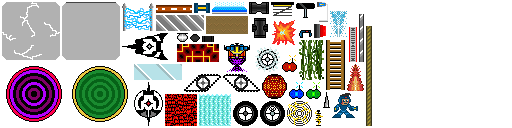
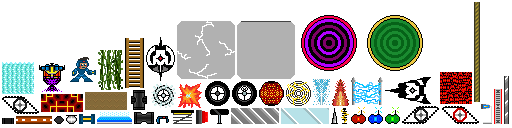
updated triptread class

diff --git a/core/src/com/udacity/gamedev/gigagal/entity/Triptread.java b/core/src/com/udacity/gamedev/gigagal/entity/Triptread.java
@@ -1,6 +1,78 @@
 package com.udacity.gamedev.gigagal.entity;
 
-public class Triptread {
+import com.badlogic.gdx.graphics.g2d.SpriteBatch;
+import com.badlogic.gdx.math.Rectangle;
+import com.badlogic.gdx.math.Vector2;
+import com.badlogic.gdx.utils.TimeUtils;
+import com.badlogic.gdx.utils.viewport.Viewport;
+import com.udacity.gamedev.gigagal.app.LevelUpdater;
+import com.udacity.gamedev.gigagal.util.Assets;
+import com.udacity.gamedev.gigagal.util.Constants;
+import com.udacity.gamedev.gigagal.util.Enums;
+import com.udacity.gamedev.gigagal.util.Helpers;
 
-    
+public class Triptread implements Trippable, Convertible, Rideable, Ground {
+
+    // fields
+    public final static String TAG = Triptread.class.getName();
+
+    private Vector2 position;
+    private boolean convert;
+    private LevelUpdater level;
+    private Rectangle bounds;
+    private long startTime;
+    private boolean state;
+    private Enums.Direction direction;
+
+    // ctor
+    public Triptread(LevelUpdater level, Vector2 position, Rectangle bounds, boolean state, Enums.Direction direction) {
+        this.position = position;
+        this.level = level;
+        this.bounds = bounds;
+        this.state = state;
+        this.direction = direction;
+        startTime = TimeUtils.nanoTime();
+        convert = false;
+    }
+
+    @Override
+    public void update(float delta) {
+        if (convert) {
+            for (Ground ground : level.getGrounds()) {
+                if (ground instanceof Convertible && ground != this) {
+                    if (Helpers.betweenFourValues(ground.getPosition(), bounds.x, bounds.x + bounds.width, bounds.y, bounds.y + bounds.height)) {
+                        ((Convertible) ground).convert();
+                    }
+                }
+            }
+        }
+        convert = false;
+    }
+
+    @Override
+    public void render(SpriteBatch batch, Viewport viewport) {
+        if (state) {
+            Helpers.drawTextureRegion(batch, viewport, Assets.getInstance().getGroundAssets().triptreadOn.getKeyFrame(Helpers.secondsSince(startTime), true), position, Constants.TRIPTREAD_CENTER);
+        } else {
+            Helpers.drawTextureRegion(batch, viewport, Assets.getInstance().getGroundAssets().triptreadOff.getKeyFrame(Helpers.secondsSince(startTime), true), position, Constants.TRIPCHAMBER_CENTER);
+        }
+    }
+
+    @Override public final Vector2 getPosition() { return position; }
+    @Override public final float getHeight() { return Constants.TRIPKNOB_CENTER.y * 2; }
+    @Override public final float getWidth() { return Constants.TRIPKNOB_CENTER.x * 2; }
+    @Override public final float getLeft() { return position.x - Constants.TRIPKNOB_CENTER.x; }
+    @Override public final float getRight() { return position.x + Constants.TRIPKNOB_CENTER.x; }
+    @Override public final float getTop() { return position.y + Constants.TRIPKNOB_CENTER.y; }
+    @Override public final float getBottom() { return position.y - Constants.TRIPKNOB_CENTER.y; }
+    @Override public final boolean isDense() { return true; }
+    public final long getStartTime() { return startTime; }
+    @Override public final void resetStartTime() { this.startTime = 0; }
+    public Rectangle getBounds() { return bounds; }
+    @Override public boolean getState() { return state; }
+    @Override public void setState(boolean state) { this.state = state; convert = true; }
+    @Override public void convert() { state = !state; convert = true; }
+    @Override public boolean isConverted() { return state; }
+    @Override public final Enums.Direction getDirection() { return direction; }
+    @Override public Triptread clone() { return new Triptread(level, position, bounds, state, direction); }
 }

diff --git a/core/src/com/udacity/gamedev/gigagal/app/LevelLoader.java b/core/src/com/udacity/gamedev/gigagal/app/LevelLoader.java
@@ -32,6 +32,7 @@ import com.udacity.gamedev.gigagal.entity.Teleport;
 import com.udacity.gamedev.gigagal.entity.Tripknob;
 import com.udacity.gamedev.gigagal.entity.Swoopa;
 import com.udacity.gamedev.gigagal.entity.Treadmill;
+import com.udacity.gamedev.gigagal.entity.Triptread;
 import com.udacity.gamedev.gigagal.entity.Vines;
 import com.udacity.gamedev.gigagal.entity.Portal;
 import com.udacity.gamedev.gigagal.entity.GigaGal;
@@ -484,6 +485,11 @@ final class LevelLoader {
                 final Vector2 tripPosition = imagePosition.add(Constants.TRIPKNOB_CENTER);
                 Gdx.app.log(TAG, "Loaded the convert at " + tripPosition);
                 Tripknob trip = new Tripknob(level, tripPosition, bounds, rotation, tags[Constants.ON_TAG_INDEX]);
+                level.getGrounds().add(trip);
+            } else if (item.get(Constants.LEVEL_IMAGENAME_KEY).equals(Constants.TRIPTREAD_1_OFF)) {
+                final Vector2 tripPosition = imagePosition.add(Constants.TRIPTREAD_CENTER);
+                Gdx.app.log(TAG, "Loaded the convert at " + tripPosition);
+                Triptread trip = new Triptread(level, tripPosition, bounds, tags[Constants.ON_TAG_INDEX], Enums.Direction.LEFT);
                 level.getGrounds().add(trip);
             } else if (item.get(Constants.LEVEL_IMAGENAME_KEY).equals(Constants.POD_SPRITE_1)) {
                 final Vector2 podPosition = imagePosition.add(Constants.POD_CENTER);

diff --git a/core/src/com/udacity/gamedev/gigagal/entity/Ammo.java b/core/src/com/udacity/gamedev/gigagal/entity/Ammo.java
@@ -167,9 +167,9 @@ public final class Ammo implements Indestructible, Hazard {
                         Assets.getInstance().getSoundAssets().hitGround.play();
                     }
                     if (strikeable instanceof Tripknob) {
-                        Trippable trippable = (Trippable) strikeable;
-                        trippable.resetStartTime();
-                        trippable.setState(!trippable.getState());
+                        Tripknob tripknob = (Tripknob) strikeable;
+                        tripknob.resetStartTime();
+                        tripknob.setState(!tripknob.getState());
                     } else if (strikeable instanceof Chargeable) {
                         Chargeable chargeable = (Chargeable) strikeable;
                         chargeable.deactivate();

diff --git a/core/src/com/udacity/gamedev/gigagal/entity/GigaGal.java b/core/src/com/udacity/gamedev/gigagal/entity/GigaGal.java
@@ -944,6 +944,10 @@ public class GigaGal implements Humanoid {
             dashStartTime = TimeUtils.nanoTime();
             strideStartTime = 0;
             canStride = false;
+            if (touchedGround instanceof Triptread) {
+                Triptread triptread = (Triptread) touchedGround;
+                triptread.setState(!triptread.getState());
+            }
         }
         float dashSpeed = Constants.GIGAGAL_MAX_SPEED;
         if (turbo >= 1) {

diff --git a/core/src/com/udacity/gamedev/gigagal/entity/Tripknob.java b/core/src/com/udacity/gamedev/gigagal/entity/Tripknob.java
@@ -49,6 +49,7 @@ public class Tripknob implements Trippable, Convertible, Strikeable, Ground {
         this.state = state;
     }
 
+    @Override
     public void update(float delta) {
         if (convert) {
             for (Ground ground : level.getGrounds()) {

diff --git a/core/src/com/udacity/gamedev/gigagal/entity/Tripchamber.java b/core/src/com/udacity/gamedev/gigagal/entity/Tripchamber.java
@@ -1,5 +1,8 @@
+/*
 package com.udacity.gamedev.gigagal.entity;
 
-public class Tripchamber {
+public class Tripchamber implements Trippable, Convertible, Chargeable, Strikeable, Ground {
+
 
 }
+*/
